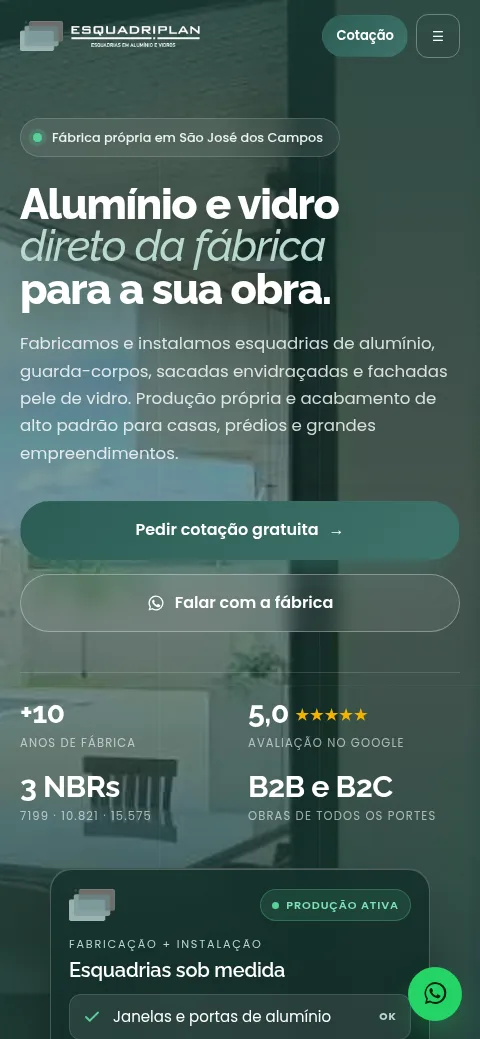
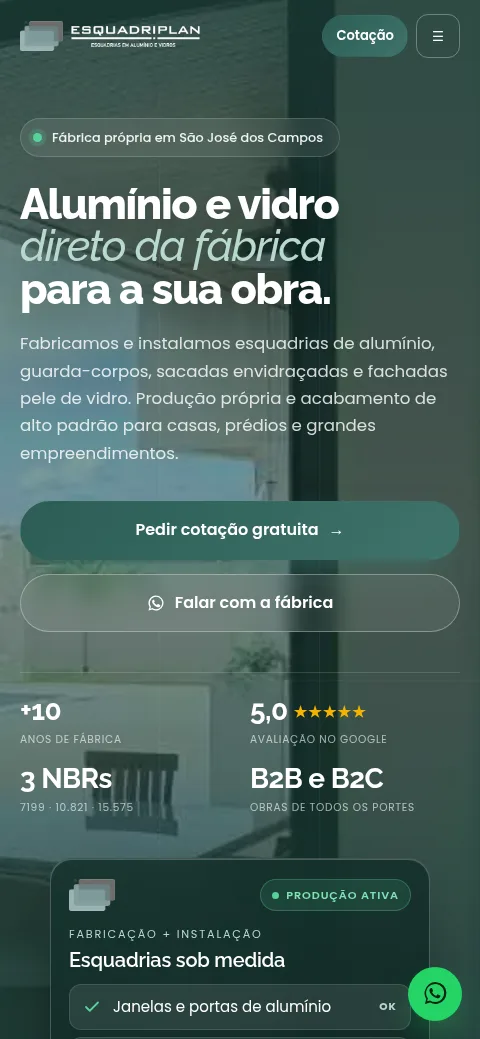
Esquadriplan: nova hero em tela cheia e screenshots da home
- Hero com foto de obra real em tela cheia, overlay verde-petróleo (tom do rodapé) e grade sutil de caixilhos
- Posicionamento de fábrica: título, pill "Fábrica própria", cartão com o que a fábrica produz e normas NBR
- Header transparente sobre a hero, branco ao rolar; logo e menu ajustados em 1280/1100/960px
- Indicadores em linha no desktop e 2x2 abaixo de 1100px; sem overflow horizontal de 375 a 1440px
- Remove efeito de fachada de vidro antigo
- Adiciona img/shots/esquadriplan-d.webp e -m.webp usados na index geral

Changed region(s): [[0.0, 0.6468, 0.9062, 1.0]]

diff --git a/esquadriplan/index.html b/esquadriplan/index.html
@@ -90,8 +90,8 @@ header.s{background:rgba(255,255,255,.9);backdrop-filter:blur(16px);border-botto
 /* header transparente sobre a hero (fica branco ao rolar) */
 header:not(.s):not(.m) #nv a{color:rgba(255,255,255,.82)}header:not(.s):not(.m) #nv a:hover,header:not(.s):not(.m) #nv a.on{color:#fff}
 header:not(.s):not(.m) .lg-tx{filter:brightness(0) invert(1)}header:not(.s):not(.m) .burger{color:#fff;border-color:rgba(255,255,255,.3)}
-@media(max-width:1280px){.lg-mk{height:42px}.lg-tx{height:30px}#nv ul{gap:20px;font-size:.9rem}}
-@media(max-width:1100px){.pill .rg{display:none}.stats{display:grid;grid-template-columns:1fr 1fr;gap:16px 20px}}
+@media(max-width:1280px){.nav .lg-mk{height:42px}.nav .lg-tx{height:30px}#nv ul{gap:20px;font-size:.9rem}}
+@media(max-width:1100px){.pill .rg{display:none}.stats{display:grid;grid-template-columns:1fr 1fr;gap:16px 20px}.nav .lg-mk{height:34px}.nav .lg-tx{height:24px}#nv ul{gap:14px;font-size:.84rem}.nav>.btn{padding:12px 20px;font-size:.9rem}}
 @media(max-width:960px){.hero:before{background:linear-gradient(180deg,rgba(29,67,61,.78),rgba(29,67,61,.5) 38%,rgba(29,67,61,.72) 62%,rgba(29,67,61,.96) 90%)}}
 /* marquee */
 .mq{border-block:1px solid var(--line);background:var(--bg2);overflow:hidden;padding:20px 0;white-space:nowrap}
